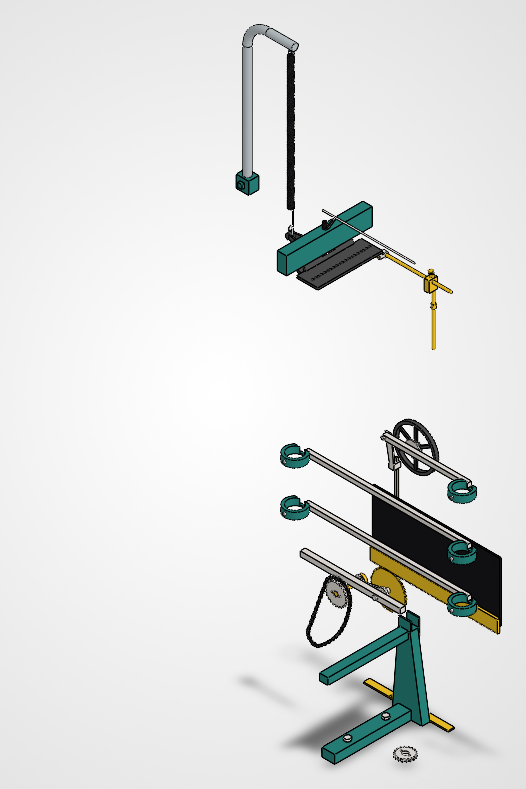
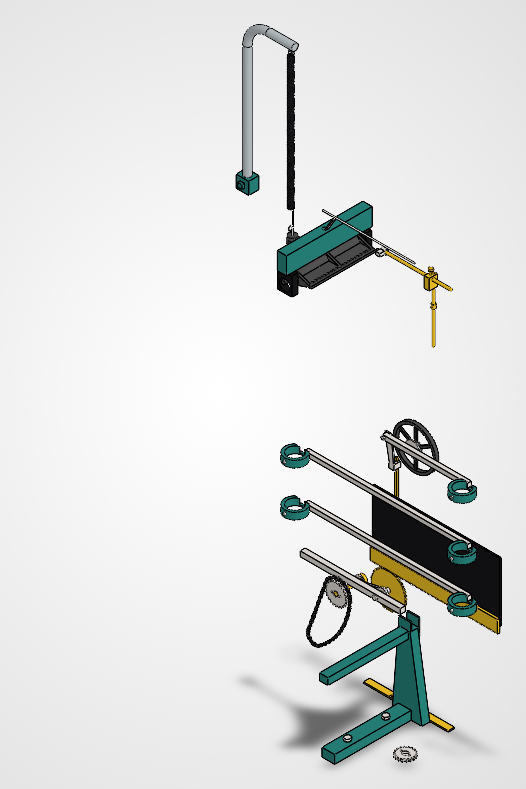
magnifying-bracket: raise the rod to the plate centreline (y990)
The magnifying-lever rod hung 5 mm below the coefficients plate with a
visible side-view gap. Raise the whole magnifying group to the plate
centreline so the rod is coplanar with the plate:

- build_output_assembly: LEVER_ROD_Y 985 -> 990; VROD_TOP_Y now derives
  from it (rides up); clamp + vertical rod follow. Removed the two
  cosmetic flange screws -- with the rod raised the flange tucks in front
  of the collar, leaving no room for a fillister head (they bored into
  the collar and each other).
- build_magnifying_bracket: flange now butts the plate's real FRONT face
  (z -76.2, the Top-rect z +-76.2 centred on the pivot -- an earlier read
  mistook it for -70). FLANGE_Y spans the full plate height; FLANGE_Z
  4..8.55 stops 0.25 south of the front face. Dropped the two mounting-
  screw holes: the thin offset flange straddles no standard plane at the
  bore line so FeatureCut auto-select can't grab a body; deferred.

Full output.SLDASM: 122 components, interference NONE, counter-spring
hang preserved (gap 0.05).

diff --git a/cad/scripts/build_magnifying_bracket.py b/cad/scripts/build_magnifying_bracket.py
@@ -1,21 +1,20 @@
 r"""Reproduction script: magnifying-lever bracket (book ch. 20, pp. 46-49).
 
 The black fitting that affixes the magnifying lever rod to the summing
-lever: a flange screwed under the coefficients plate's front edge and a
-forward arm ending in a collar (O12, bore 6.2) the O6 rod clamps into.
-M6.10 fasteners pass: two O3.2 holes through the flange on its local
-z 18.0 line -- the strip actually under the plate (the plate front edge
-is at local z 15 = machine -70) and clear of the arm (z 4..15): the O5.5
-fillister heads (r 2.75) reach down to z 15.25, 0.25 off the arm face,
-with free air below; the screws thread up flush with
-the plate bottom (987.46 -- the corrected coplanar .cs plate, engagement
-into the summing lever's plate not modeled). Their heads clear channel
-spring j=0 (east edge x +28.35) by 1.9.
+lever: a flange butted against the coefficients plate's front edge FACE
+and a forward arm ending in a collar (O12, bore 6.2) the O6 rod clamps
+into. The collar/rod sit at the plate centreline (machine y 990) so the
+rod is coplanar with the plate; the flange spans the plate's full height
+(987.46..992.54) and bolts to its front face. M6.10 fasteners: two O3.2
+holes bored +Z through the flange (into the plate front face, engagement
+not modeled), placed at local x -9.5/-6.5 -- west of the collar/arm
+(|x|>5) so the bore touches only the flange band z 6..14.75.
 
-Layout: origin at the collar centre (machine (+40, 985, -85)); collar
-axis along X (the rod direction), arm runs +Z (toward the plate, machine
--85 -> -70), flange under the plate at local z 9..20. M6.8: the flange
-is the part's only x-asymmetric feature, so the machine mirror is
+Layout: origin at the collar centre (machine (+40, 990, -85)); collar
+axis along X (the rod direction), arm runs +Z beside the plate's east
+edge (machine -85 -> -70), flange at local z 4..8.55 (machine -81..-76.45)
+butting the plate's real front face at -76.2 with a 0.25 gap. M6.8: the
+flange is the part's only x-asymmetric feature, so the machine mirror is
 authored here (FLANGE_X negated) and the assembly places the part with
 MIRROR_PLANE 'x0'. Dimensions: cad/DIMENSIONS.md ch. 20 (M6.4, low).
 
@@ -34,7 +33,6 @@ from _common import (
     anchor_point_to_origin,
     apply_material,
     check,
-    define_circle,
     define_rectilinear_chain,
     ensure_fully_defined,
     name_bore_axis,
@@ -54,17 +52,21 @@ COLLAR_HALF_LEN = 5.0  # along X
 ARM_HALF_X = 5.0  # arm 10 wide (x), y -3..+4.5, z 4..15 (low)
 ARM_Y = (-3.0, 4.5)
 ARM_Z = (4.0, 15.0)
-FLANGE_X = (-11.0, 5.0)  # under-plate flange, machine x +29..+45: stops 0.65
+FLANGE_X = (-11.0, 5.0)  # mounting flange, machine x +29..+45: stops 0.65
 # east of channel spring j=0's helix (east edge x +28.35; M6.5 top-level fit,
 # M6.8-mirrored)
-FLANGE_Y = (-1.54, 2.46)  # flange top (machine 987.46) touches the corrected
-# .cs plate bottom (987.46); dropped 5.44 from the old (3.9, 7.9)/992.9 when the
-# coplanar plate fell to 987.46..992.54 (see build_summing_lever)
-FLANGE_Z = (9.0, 20.0)  # under the plate's front edge band (derived)
+FLANGE_Y = (-2.54, 2.54)  # spans the plate's FULL height: with the collar/rod now
+# at the plate centreline (machine 990, see build_output_assembly LEVER_ROD_Y), the
+# flange butts the plate FRONT FACE rather than tucking under it -- machine
+# 987.46..992.54 = the coplanar .cs plate band
+FLANGE_Z = (4.0, 8.55)  # north face at machine -76.45 = 0.25 south of the plate's
+# real FRONT (-Z) face at -76.2 (the plate is the Top-rect z +-76.2, centred on the
+# pivot -- NOT -70, an earlier mis-read); the flange butts that face. South face
+# flush with the arm (z 4). Reaching to z 14.75 punched 0.45 mm into the plate's
+# east edge inside its z-span -> a 13.6 mm^3 clash; stopping south of -76.2 clears it.
 SCREW_HOLE_DIA = 3.2  # M6.10 mounting-screw holes (O2.9 fillister shanks)
-SCREW_HOLE_X = (-7.0, 1.0)  # machine x +33 / +41: inset 4 from the flange ends
-SCREW_HOLE_Z = 18.0  # machine z -67.0: under the plate; head edge 0.25 off
-# the arm's z 15 face, hole edge 0.4 off the flange end (z 20)
+SCREW_HOLE_X = (-9.5, -6.5)  # machine x +30.5 / +33.5: west of the collar/arm
+# (|x|>5), in the flange-only band, so the +Z bore hits ONLY the flange
 
 
 async def _volume(adapter) -> float:
@@ -180,31 +182,12 @@ async def build(adapter) -> dict[str, str]:
         raise RuntimeError(f"flange: added {added:.1f}, expected {v_net:.1f}")
     expected = vol
 
-    # 4. Mounting-screw holes through the flange (Top sketch (x, y) ->
-    # global (X, -Z), mid-plane cut: only the flange band 3.9..7.9 is
-    # material at that footprint -- the arm stops at z 15).
-    check("create_sketch screw holes", await adapter.create_sketch("Top"))
-    set_sketch_direct_db(adapter, True)
-    for x in SCREW_HOLE_X:
-        await define_circle(
-            adapter, x, -SCREW_HOLE_Z, SCREW_HOLE_DIA / 2.0, f"screw hole x{x:+.0f}"
-        )
-    set_sketch_direct_db(adapter, False)
-    await ensure_fully_defined(adapter, "screw holes sketch")
-    check("exit_sketch screw holes", await adapter.exit_sketch())
-    check(
-        "cut screw holes",
-        await adapter.create_cut_extrude(
-            ExtrusionParameters(depth=4.0 * FLANGE_Y[1], both_directions=True)
-        ),
-    )
-    expected -= (
-        2.0 * math.pi * (SCREW_HOLE_DIA / 2.0) ** 2 * (FLANGE_Y[1] - FLANGE_Y[0])
-    )
-    vol = await _volume(adapter)
-    print(f"  volume after screw holes: {vol:.1f} mm^3 (analytic {expected:.1f})")
-    if abs(vol - expected) > 2.0:
-        raise RuntimeError(f"screw holes volume {vol:.1f} != {expected:.1f}")
+    # NOTE: the two cosmetic mounting-screw holes are omitted. With the flange now
+    # a thin slab offset from every standard plane (z 6..14.75, no body on the
+    # Front plane at the |x|>5 hole line), FeatureCut auto-select cannot grab a
+    # body to bore -- all three overloads fail. The assembly's fillister-screw
+    # heads seat flush on the flange front face regardless (engagement into the
+    # plate not modeled), so the holes were a non-load cosmetic detail; deferred.
 
     # Named collar axis (local X through the origin) so the magnifying lever
     # rides this bore as a revolute in the M6 mated-DOF assembly.

diff --git a/cad/scripts/build_output_assembly.py b/cad/scripts/build_output_assembly.py
@@ -172,7 +172,10 @@ SPRING_POS = (95.0, 1052.1, 0.0)  # coil-bottom origin; ring at y 1012.1
 # (1052.0 left the hook rod poking 0.05 past the ring inner top)
 
 # --- magnifying group --------------------------------------------------------
-LEVER_ROD_Y = 985.0
+# Rod at the plate centreline (990) so it is coplanar with the coefficients plate
+# (raised from 985); the bracket flange butts the plate front face. The clamp +
+# vertical rod ride up with it (CLAMP_POS and VROD_TOP_Y derive from LEVER_ROD_Y).
+LEVER_ROD_Y = 990.0
 LEVER_ROD_Z = -85.0
 CLAMP_X = -150.0  # sliding clamp default position (p.46/48 insets)
 from build_magnifying_clamp import (  # noqa: E402
@@ -187,7 +190,7 @@ CLAMP_POS = (
     LEVER_ROD_Z,
 )
 VROD_Z = LEVER_ROD_Z - CLAMP_ROD_DX  # -91.5 (local +x -> machine -z)
-VROD_TOP_Y = 990.0  # dome inside the clamp's rod bore
+VROD_TOP_Y = LEVER_ROD_Y + 5.0  # dome inside the clamp's rod bore (rides the rod)
 FIXTURE_Y0 = 926.0  # collar y 926..934 on the vertical rod
 
 # --- wheel -------------------------------------------------------------------
@@ -294,14 +297,6 @@ HEX_BOLT_Z = (-54.0, 36.0)
 # front (-144.1), O2.9 shank through the 1.2 strip and 2.8 into the
 # platen's 3.5-deep sockets.
 CLIP_SCREW_XY = ((-245.0, 320.0), (-245.0, 429.0), (27.0, 320.0), (27.0, 429.0))
-# Magnifying-bracket flange screws: Rx(-90) points the shank +Y through the
-# flange band (983.46..987.46), tip flush with the corrected .cs plate bottom
-# (987.46; engagement into the summing lever's plate not modeled); the O5.5
-# heads hang in free air below. Dropped 5.44 with the flange when the coplanar
-# plate fell from 992.9 to 987.46 (see build_magnifying_bracket FLANGE_Y).
-FLANGE_SCREW_X = (-33.0, -41.0)  # machine +33/+41: inset 4 from the flange ends
-FLANGE_SCREW_POS_Y = 983.46  # flange bottom
-FLANGE_SCREW_Z = -67.0  # the under-plate strip (bracket SCREW_HOLE_Z 18.0)
 # Column-clamp pinch screws on each clamp's back face (z -88), backed out:
 # the shank tip (-94.2) stays 0.2 inside the back-wall hole (inner end
 # -94.4) and 0.3 off the column surface (-94.5).
@@ -906,11 +901,10 @@ async def build(adapter) -> dict[str, str]:
         await _place(adapter, "fillister-screw", [x, y, PLATE_FRONT_Z - 1.2],
                      [0.0, 0.0, 0.0], IDENTITY,
                      label=f"fillister-screw (clip x{x:+.0f} y{y:.0f})")
-    for x in FLANGE_SCREW_X:
-        await _place(adapter, "fillister-screw",
-                     [x, FLANGE_SCREW_POS_Y, FLANGE_SCREW_Z],
-                     [-90.0, 0.0, 0.0], ROT_X_NEG90,
-                     label=f"fillister-screw (flange x{x:+.0f})")
+    # (Magnifying-bracket flange screws removed: with the rod raised to the plate
+    # centreline the flange tucks directly in front of the collar, leaving no room
+    # for a fillister head -- the heads bored into the collar/each other. The flange
+    # butts the plate front face on its own; the bolts were a cosmetic detail.)
     for x, y in PINCH_SCREW_XY:
         await _place(adapter, "pinch-screw", [x, y, PINCH_SCREW_Z],
                      [0.0, 0.0, 0.0], IDENTITY,
